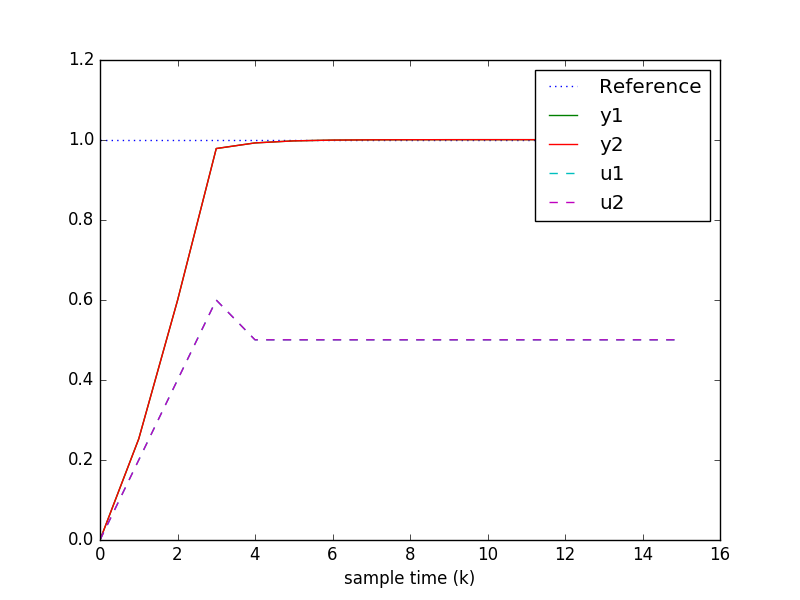
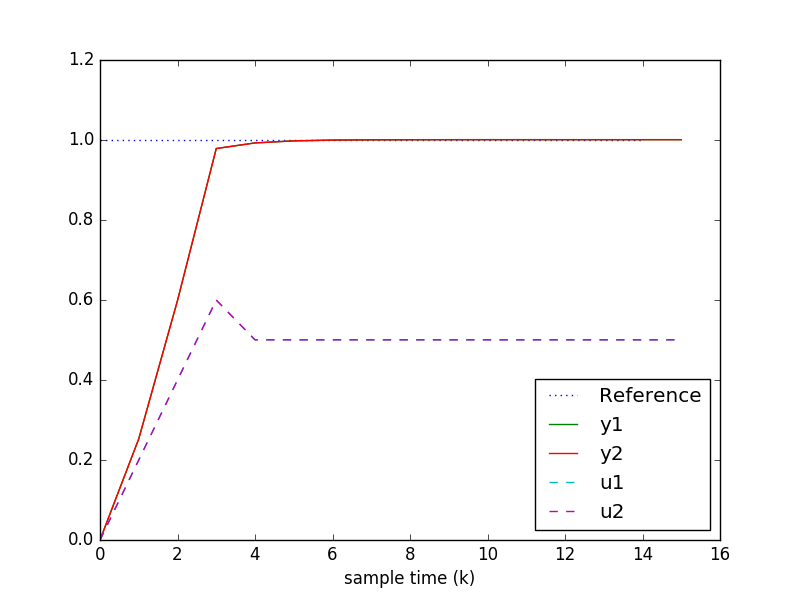
Plot stuff

Changed region(s): [[0.6562, 0.09, 0.9062, 0.39], [0.6562, 0.63, 0.9062, 0.9], [0.75, 0.75, 0.7812, 0.81]]

diff --git a/ethylene-oxide.py b/ethylene-oxide.py
@@ -129,6 +129,20 @@ x11 = G11.dot(du1)
 x12 = G12.dot(du2)
 x21 = G21.dot(du1)
 x22 = G22.dot(du2)
-plt.plot(x11+x12)
-plt.plot(x21+x22)
-plt.legend(['y1','y2'])
+y1 = np.append(np.zeros(1),x11+x12)
+y2 = np.append(np.zeros(1),x21+x22)
+u1 = u2 = np.array([0])
+for i in range(m):
+    u1 = np.append(u1,u1[i]+du1[i])
+    u2 = np.append(u2,u2[i]+du2[i])
+u1 = np.append(u1,[u1[m]]*(p-m))
+u2 = np.append(u2,[u2[m]]*(p-m))
+plt.clf()
+plt.plot([1]*p,':', label='Reference')
+plt.plot(y1, label='y1')
+plt.plot(y2, label='y2')
+plt.plot(u1,'--', label='u1')
+plt.plot(u2,'--', label='u2')
+plt.legend(loc=4)
+plt.xlabel('sample time (k)')
+

diff --git a/dmc_example.py b/dmc_example.py
@@ -84,10 +84,11 @@ for i in range(m):
     u2 = np.append(u2,u2[i]+du2[i])
 u1 = np.append(u1,[u1[m]]*(p-m))
 u2 = np.append(u2,[u2[m]]*(p-m))
-plt.plot([1]*p,':')
-plt.plot(y1)
-plt.plot(y2)
-plt.plot(u1,'--')
-plt.plot(u2,'--')
-plt.legend(['Reference','y1','y2','u1','u2'])
+plt.clf()
+plt.plot([1]*p,':', label='Reference')
+plt.plot(y1, label='y1')
+plt.plot(y2, label='y2')
+plt.plot(u1,'--', label='u1')
+plt.plot(u2,'--', label='u2')
+plt.legend(loc=4)
 plt.xlabel('sample time (k)')
